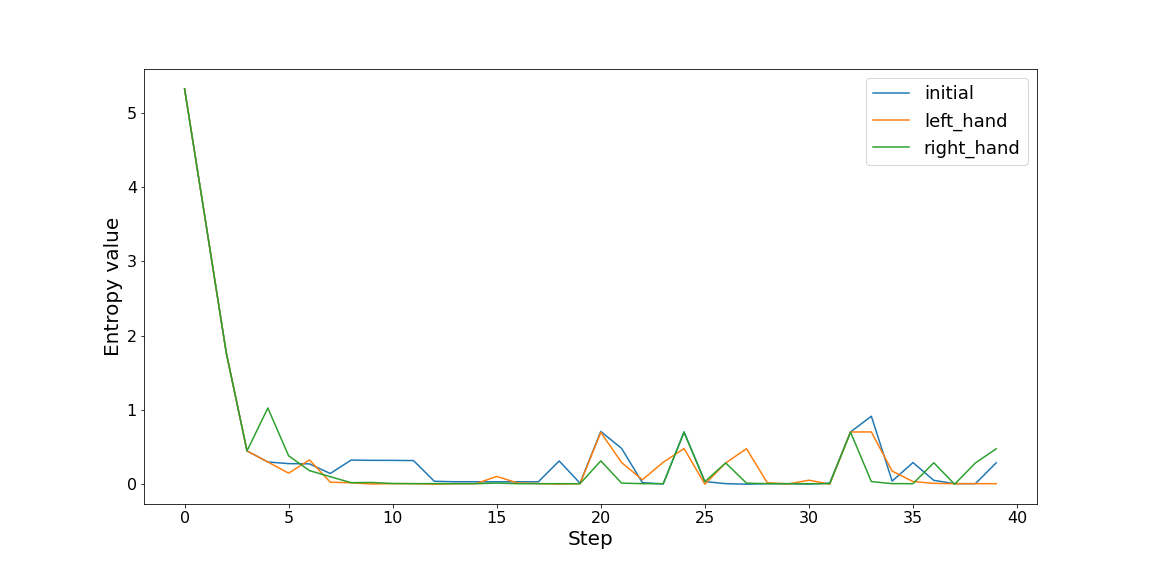
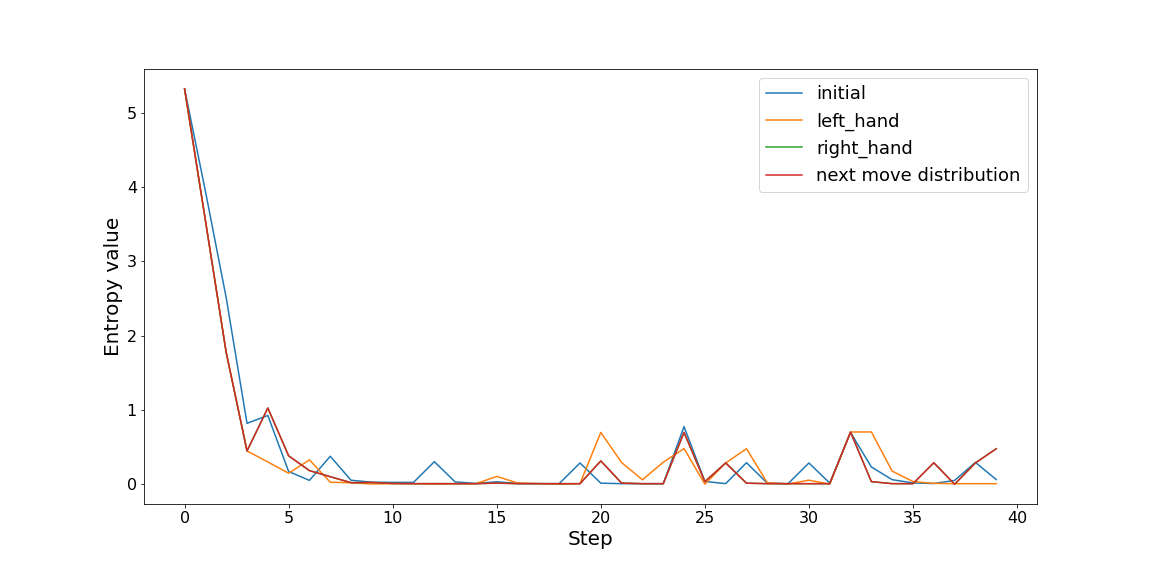
Add nex move distribution heuristics

diff --git a/agents/prob.py b/agents/prob.py
@@ -66,11 +66,12 @@ class LocAgent:
         print(f'Entropy: {round(entr, 5)}')
         self.steps_entropy.append(entr)
 
-        np.save('heuristics_entropy/initial_heuristics.npy', self.steps_entropy)
+        np.save('heuristics_entropy/next_move_heuristics.npy', self.steps_entropy)
 
-        action = self.initial_heuristics(percept)
+        #action = self.initial_heuristics(percept)
         #action = self.right_left_hand_heuristics(percept, hand='turnright')
         #action = self.right_left_hand_heuristics(percept, hand='turnleft')
+        action = self.next_move_heuristics(percept)
 
         self.prev_action = action
 
@@ -121,6 +122,35 @@ class LocAgent:
         else:
             action = 'forward'
 
+        return action
+
+
+    def next_move_heuristics(self, percept: list) -> str:
+        """Robot heuristics based on calculating new distribution for possible next moves.
+
+        Parameters
+        ----------
+        percept : list
+            Robot sensor measurements.
+
+        Returns
+        -------
+        str
+            Robot next move.
+        """
+        next_move_distribution = self.movement_factor(percept)
+        forward = [next_move_distribution[i] for i in range(0, len(next_move_distribution), 4)]
+        right = [next_move_distribution[i+1] for i in range(0, len(next_move_distribution), 4)]
+        left = [next_move_distribution[i+3] for i in range(0, len(next_move_distribution), 4)]
+
+        actions = dict(zip(['turnleft', 'turnright', 'forward'], [np.max(left), np.max(right), np.max(forward)]))
+        
+        sorted_actions = sorted(['turnleft', 'turnright', 'forward'], key=actions.get)
+        if 'fwd' in percept:
+            sorted_actions.remove('forward')
+
+        action = sorted_actions[-1]
+        
         return action
 
 

diff --git a/README_FILES/README_PL.md b/README_FILES/README_PL.md
@@ -18,10 +18,13 @@ Projekt bazuje na obliczeniu rozkładu prawdopodobieństwa lokalizacji robota uw
 
 ## Heurystyki
 Do wybrania następnego ruchu robota zostały przetestowane następujące heurystyki:
-- początkowa 
-- prawej dłoni
-- lewej dłoni
+- początkowa - bazuje na losowym wyborze możliwego ruchu
+- prawej dłoni - bazuje na ruchu na wprost i obrocie w prawo jeśli nie jest on dostępny
+- lewej dłoni - bazuje na ruchu na wprost i obrocie w lewo jeśli nie jest on dostępny
+- dystrybucja następnego ruchu - bazuje na obliczeniu rozkładu dystrybucji następnych ruchów przy wykorzystaniu czynnika ruchu z wykorzystaniem aktualnej wrtości *percept* z sensora i wybraniu najlepszej możliwej akcji
 
 Dla każdej heurystyki i dla każdego ruchu wyliczona została wartość entropii. Zbiorczy wykres wartości entropii dla każdej z heurystyk został przedstawiony poniżej.
 
 ![Used heuristics plots](./40_steps_entropy.png)
+
+Zarówno heurystyka prawej dłoni, jak i dystrybucji następnego ruchu dają takie same rezultaty dla pierwszych 40 próbek i są one lepsze niż przy wykorzystaniu początkowej heurystyki. Heurystyka dystrybucji następnego ruchu pozwala na wybór akcji, która maksymalizuje percepcje robota i minimalizuje entopii rozkładu dystrybucji prawdopodobieństwa lokalizacji robota.

diff --git a/README.md b/README.md
@@ -24,10 +24,13 @@ Polish language version of documentation - [README_PL.md](./README_FILES/README_
 
 ## Heuristics
 To choose next robot's move was tested several heuristics:
-- initial 
-- right hand
-- left hand
+- initial - base on random choice of possible next action
+- right hand - base on moving forward and turn right if moving forward is impossible
+- left hand - base on moving forward and turn left if moving forward is impossible
+- next move distribution - base on calculating distribution of next movement using movement factor with current percept and choosing the best and possible action
 
 For each heuristics' step was calculated value of entropy what is show in grouped plot below.
 
 ![Used heuristics plots](./README_FILES/40_steps_entropy.png)
+
+Both right hand and next move distribution heuristics gives the same results for first 40 samples and are better than initial heuristics. Next move distribution heuristics let to choose movement which can maximize robot percepts and minimalize entropy of robot localization probability distribution.
